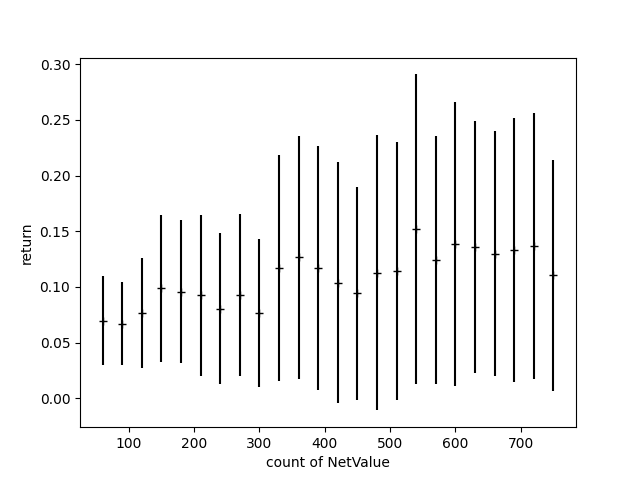
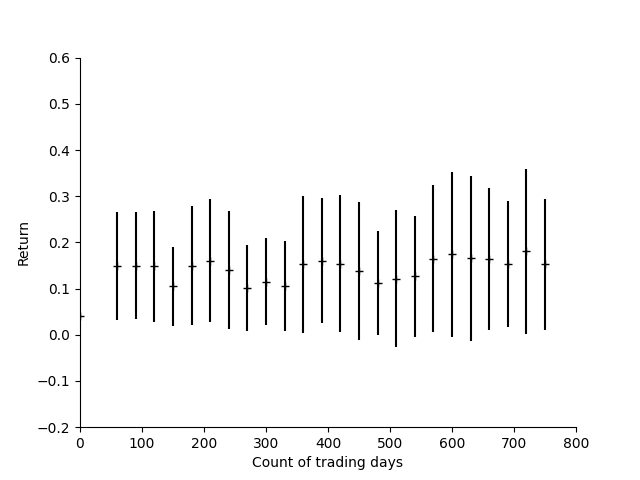
add train code

diff --git a/src/train/trainGBDT.py b/src/train/trainGBDT.py
@@ -16,16 +16,20 @@ gc.enable()
 
 def loadDataset(ifPrint=True, ifLoadDatasetFromFile = True):
     if ifPrint:
-        print('Loading data...')    
+        print('Loading data...')
+
+    # the file don't exist, so it's mandatory to generate the file
+    if ifLoadDatasetFromFile:
+        if not os.path.exists('data/xSparseForTrainDataset.npz') or not os.path.exists("data/yForTrainDataset.csv"):
+            ifLoadDatasetFromFile = False
 
     if not ifLoadDatasetFromFile:
         # create the dataset
         folderOfTrainDataset = "data/trainDataset"
         count = 0
         for file in os.listdir(folderOfTrainDataset):
-            if count >= 100000:
-                break
-            print ("count = %s\tfile=%s" % (count, file))
+            if count % 100 == 0:
+                print ("count = %s\tfile=%s" % (count, file))
 
             filePath = os.path.join(folderOfTrainDataset, file)
             dfSingle = pd.read_csv(filePath, index_col=0).T.fillna(0)
@@ -74,9 +78,6 @@ def loadDataset(ifPrint=True, ifLoadDatasetFromFile = True):
     trainIndice = indice[:trainValSplitNumber]
     evaluateIndice = indice[trainValSplitNumber:valTestSplitNumber]
     testIndice = indice[valTestSplitNumber:]
-    #print ("trainIndice = %s" % trainIndice)
-    #print ("evaluateIndice = %s" % evaluateIndice)
-    #print ("testIndice = %s" % testIndice)
     #print ("len(trainIndice) = %s" % len(trainIndice))  # 2611130
     #print ("len(evaluateIndice) = %s" % len(evaluateIndice))    # 326391
     #print ("len(testIndice) = %s" % len(testIndice))    # 326392
@@ -102,6 +103,7 @@ def loadDataset(ifPrint=True, ifLoadDatasetFromFile = True):
 
     return xTrain, yTrain, xEvaluate, yEvaluate, xTest, yTest
 
+
 def objective(trial):
     xTrain, yTrain, xEvaluate, yEvaluate, xTest, yTest = loadDataset(ifPrint=False)
 
@@ -110,21 +112,6 @@ def objective(trial):
     lgbEval = lgb.Dataset(xEvaluate, yEvaluate, reference=lgbTrain)
 
     # specify the configurations as a dict
-    '''
-    params = {
-        'boosting_type': 'gbdt',
-        'objective': 'regression',
-        'metric': {'l2', 'l1'},
-        'num_threads': 4,   # real CPU cores in Surface Book 2, modify this in other machine
-        'num_leaves': trial.suggest_int("num_leaves", 2, 2**12-1),
-        'learning_rate': trial.suggest_float("learning_rate", 0.01, 1.0),
-        'feature_fraction': trial.suggest_float("feature_fraction", 0.4, 1.0),
-        'bagging_fraction': trial.suggest_float("bagging_fraction", 0.4, 1.0),
-        'bagging_freq': trial.suggest_int("bagging_freq", 1, 10),
-        'verbose': 0,
-        'min_data_in_leaf': trial.suggest_int("min_data_in_leaf", 10, 1000)
-    }
-    '''
     params = {
         'boosting_type': 'gbdt',
         'objective': 'regression',
@@ -140,13 +127,6 @@ def objective(trial):
     }
 
     # train
-    '''
-    gbm = lgb.train(params,
-                    lgbTrain,
-                    num_boost_round=trial.suggest_int("num_boost_round", 10, 1000),
-                    valid_sets=lgbEval,
-                    early_stopping_rounds=trial.suggest_int("early_stopping_rounds", 1, 100))
-    '''
     gbm = lgb.train(params,
                     lgbTrain,
                     num_boost_round=20,  # already fine tune
@@ -157,6 +137,7 @@ def objective(trial):
     yPred = gbm.predict(xTest)
     # eval
     return mean_squared_error(yTest, yPred) ** 0.5
+
 
 def autoFineTune():
     study = optuna.create_study(direction="maximize")
@@ -172,6 +153,7 @@ def autoFineTune():
     print("  Params: ")
     for key, value in trial.params.items():
         print("    {}: {}".format(key, value))
+
 
 def trainModel():
     xTrain, yTrain, xEvaluate, yEvaluate, xTest, yTest = loadDataset()
@@ -209,31 +191,32 @@ def trainModel():
 
     print('Starting predicting...')
     # predict
-    yPred = gbm.predict(xEvaluate, num_iteration=gbm.best_iteration)
+    yPred = gbm.predict(xTest, num_iteration=gbm.best_iteration)
     print (yPred[:10])
     # eval
-    print('The rmse of prediction is:', mean_squared_error(yEvaluate, yPred) ** 0.5)
+    print('The rmse of prediction is:', mean_squared_error(yTest, yPred) ** 0.5)
 
-def testModel():
+
+def testModel(ifLoadDatasetFromFile = True):
     print('Loading data...')
 
-    ifLoadDatasetFromFile = True
+    # the file don't exist, so it's mandatory to generate the file
+    if ifLoadDatasetFromFile:
+        if not os.path.exists("data/dfTest.csv"):
+            ifLoadDatasetFromFile = False
 
     if not ifLoadDatasetFromFile:
         # create the dataset
         folderOfTestDataset = "data/testDataset"
         count = 0
         for file in os.listdir(folderOfTestDataset):
-            if count >= 1000000:
-                break
-            print ("count = %s\tfile=%s" % (count, file))
+            if count % 100 == 0:
+                print ("count = %s\tfile=%s" % (count, file))
 
             filePath = os.path.join(folderOfTestDataset, file)
             dfSingle = pd.read_csv(filePath, index_col=0)
-            #dfSingle.rename(columns={"Unnamed: 0":"FundCode"}, inplace=True)
             dfSingle.reset_index(drop=True, inplace=True)
             dfSingle = dfSingle.T.fillna(0)
-            #print (dfSingle)
 
             if count == 0:
                 dfTest = dfSingle
@@ -243,36 +226,30 @@ def testModel():
             count += 1
 
         print ("count = %s" % count)
-        #dfTest.reset_index(drop=True, inplace=True)
 
         # save df
         dfTest.to_csv("data/dfTest.csv")
-    else:
-        dfTest = pd.read_csv("data/dfTest.csv", dtype={'Unnamed: 0':object})
-        dfTest.set_index(['Unnamed: 0'], inplace=True)
+        
+    dfTest = pd.read_csv("data/dfTest.csv", dtype={'Unnamed: 0':object})
+    dfTest.set_index(['Unnamed: 0'], inplace=True)
 
     print ("dfTest = \n%s" % dfTest)
 
     # load model to predict
     bst = lgb.Booster(model_file='model/model.txt')
-    # can only predict with the best iteration (or the saving iteration)
     yPred = bst.predict(dfTest)
-    print ("yPred = %s" % yPred)
-    print ("yPred.shape = %s" % yPred.shape)
-    #print ("type(yPred) = %s" % type(yPred))    # <class 'numpy.ndarray'>
-
-    dfTest["adjustFactorToLatestDay"] = yPred
-    dfAdjustFactorToLatestDay = dfTest[["adjustFactorToLatestDay"]].T
-    print ("dfAdjustFactorToLatestDay = %s" % dfAdjustFactorToLatestDay)
-    dfAdjustFactorToLatestDay.to_csv("data/dfAdjustFactorToLatestDay.csv")
 
     dfTest["yPred"] = yPred
-    print ("dfTest = %s" % dfTest)
+    dfAdjustFactorToLatestDay = dfTest[["yPred"]].T
+    dfAdjustFactorToLatestDay.to_csv("data/dfAdjustFactorToLatestDay.csv")
 
+    print ("dfAdjustFactorToLatestDay = \n%s" % dfAdjustFactorToLatestDay)
+
+    xMax = dfTest.shape[1] - 2  # 8812
     try:
-        dfTest.plot.scatter(x='9573', y='yPred', c='k')
+        dfTest.plot.scatter(x=str(xMax), y='yPred', c='k')
     except:
-        dfTest.plot.scatter(x=9573, y='yPred', c='k')
+        dfTest.plot.scatter(x=xMax, y='yPred', c='k')
     plt.xlabel("Count of trading days")
     plt.ylabel("Adjusted factor to latest day")
     plt.xlim((0, 800))
@@ -281,7 +258,8 @@ def testModel():
     # no line in right and top border
     ax.spines['right'].set_color('none')
     ax.spines['top'].set_color('none')
-    plt.savefig("./data/adjust_factor_in_testing.png")
+    plt.savefig("./image/adjust_factor_in_testing.png")
+
 
 if __name__ == "__main__":
     fire.Fire()

diff --git a/doc/dataPrepare.md b/doc/dataPrepare.md
@@ -1,90 +1,53 @@
 ## crawl data
-
-Most of the data are crawled from [天天基金网](https://fund.eastmoney.com/), follow below procedures to crawl all the data.
-
-All commands are exectued in the root folder of this repo.
+Most of the data are crawled from [天天基金网](https://fund.eastmoney.com/).
 ```
 python src/data/crawlFundData.py crawlAllFundData --ifCrawlBasicInformation=True --ifCrawlPortfolio=True --ifCrawlHistoricalValue=True
 ```
-You can set the args False to ignore some informations.
-
-### Optional commands
-
-If you want to get latest fund, just use below commands.
-```
-python src\data\getLatestFund.py
-```
+You can set the args False to ignore some informations, all commands are exectued in the root folder of this repo.
 
 ## data analyze
-
 ### analyze historical value
-
 Use below commands to get the return and risk in 3 years for all funds.
 ```
 python src/data/analyzeData.py analyzeHistoricalValue --ifUseNewIssues=True --ifUseOldIssues=True --ifUseWatchList=False --ifUseAdjustFactorToLatestDay=False --ifPrintFundCode=False
 ```
 
-We can set ifUseAdjustFactorToLatestDay be True after we prepare data in TODO: add location.
-
+The result:
 ![risk_return_noWatchlist_useNewIssues_useOldIssues_notUseAdjustFactor](image/risk_return_noWatchlist_useNewIssues_useOldIssues_notUseAdjustFactor.png)
 
 
 ### quantitively analyze
-Catogorize the return and risk in same days.
+Catogorize the return and risk in near days.
 ```
 python src/data/analyzeData.py getAverageSlopeForFundsInSameRange --ifUseAdjustFactorToLatestDay=False
 ```
 We can get the average of annualized return, it seems the average return varies in different time.
-
 ![averageReturn_30_notUseAdjustFactor](image/averageReturn_30_notUseAdjustFactor.png)
 
-
 ### fund managers tend to use similar strategy
-
 We can use Pearson's correlation method to get the correlation between fund '110011' and other funds.
 ```
 python src/data/analyzeData.py getCorrelationMatrixForOneFund --ifGetCorrFromFile=False --ifGetDfMergeFromFile=False
 ```
-
 If intermediate file are generated, we can set related flags True.
-
 ![correlation_110011](image/correlation_110011.png)
 
 ### confirm it in all funds
-To confirm it, I analyze the Pearsom's correlation matrix for all funds and try to find the maximum correlation for each fund, it seems all the maximum correlation is near 1, so we can find a similar fund for every fund.
+I analyze the Pearsom's correlation matrix for all funds.
 ```
 python src/data/analyzeData.py getCorrelationMatrixForAllFunds --ifGetCorrFromFile=False --ifGetDfMergeFromFile=False
 ```
-
 ![maximum_correlation](image/maximum_correlation.png)
 
-Based on analysis above, another way to estimate the return in 3 years is we can let newer fund imitate the return of the older fund with same portfolio. But we can't find two funds with same portfolio, so we should train a model to elimate the influence of different portfolio and unknown equities.
-
 #### Cosine between portfolio of two funds
-As we can get sparse matrix for portfolio of all funds, we can use cosine between two vectors in this matrix to represent the correlation of two funds.
-We can analyze one fund.
+Use cosine between two vectors in this matrix to represent the correlation of two funds.
 ```
 python src/data/analyzeData.py analyzeCosineForOneFund
 ```
-
 ![cosine_110011](image/cosine_110011.png)
 
-It seems most of the values are located around 0 or 1.
-
-We can regard cosine as some forms of correlation, where cosine=1 means those two funds are related. But this image is different with the correlation image in [fund managers tend to use similar strategy](#fund-managers-tend-to-use-similar-strategy), where the last image have few correlation locating around 0. To confirm this, I print it in the image, coordinate x represents cosine, coordinate y represents Pearson's correlation.
+Get the relation between cosine relation and Pearson's correlation.
 ```
 python src/data/analyzeData.py compareCosineAndPearsonCorr --ifFetchCosineFundFromFile=False --ifFetchCorrFundFromFile=False
 ```
-
 ![cosine_PearsonCorr](image/cosine_PearsonCorr_110011.png)
-
-It seems these 2 metrics are not related, and the Pearson correlation between them are 0.134506. I think we can understand it easily, two funds with different portfolio can have same returns.
-
-## prepare data to train
-
-You can use below commands.
-```
-python src/data/prepareDataset.py prepareTrainDataset
-```
-It will get dataset for every fund which found 3 years ago. I count it and the number is 4340, as there are 9159 funds in folder "dayInStandard", we substract it and we can get 4819 funds which found less than 3 years (actually get 4543).
-

diff --git a/README.md b/README.md
@@ -12,50 +12,45 @@ Use below commands to crawl the data.
 python src/data/crawlFundData.py crawlAllFundData
 ```
 
+Prepare data to train
+```
+python src/data/prepareDataset.py prepareTrainDataset
+```
+
 To find more details, please refer to [dataPrepare](doc/dataPrepare.md).
-
-## data analysis
-
-We want the return and risk in 3 years for all funds.
-[add image]
-The funds with highest return are new issues, it's a problem, for more details, please refer to my paper TODO: add location.
-
-
 
 ## use GBDT to imitate the older fund
 ### training
-
-I use [LightGBM](https://github.com/microsoft/LightGBM) to train GBDT, and I suggest to use Anaconda to install this repository in Ubuntu, it's useful.
-```linux
-conda create --name python36 python=3.6
-source activate python36
-conda install lightgbm
-```
-
 You can train the model and evaluate it like this.
 ```
-python trainGBDT.py trainModel
+python src/train/trainGBDT.py trainModel
 ```
-
+### evaluate
 Get the adjusted factor to latest day.
 ```
-python trainGBDT.py testModel
-```
-
-I try to use optuna to fine tune automatically, but the result is not good, so I quit it.
-```
-python trainGBDT.py autoFineTune
-```
-
-Evaluate it again.
-```
-python analyzeFundData.py getAverageSlopeForFundsInSameRange --ifUseAdjustFactorToLatestDay=False
+python src/train/trainGBDT.py testModel --ifLoadDatasetFromFile=True
 ```
 
 We get the adjustFactorToLatestDay to dayInStandard.
 ![adjust_factor_in_testing](image/adjust_factor_in_testing.png)
 
+I try to use optuna to fine tune automatically, but the result is not good, so I quit it.
+```
+python src/train/trainGBDT.py autoFineTune
+```
+
+After we get the adjusted factor, we can evaluate it again.
+```
+python src/data/analyzeData.py getAverageSlopeForFundsInSameRange --ifUseAdjustFactorToLatestDay=True
+```
+
 The model flatten the distribution of average return.
 ![averageReturn_30_useAdjustFactor](image/averageReturn_30_useAdjustFactor.png)
 
 The standard deviation of average return drop from 0.0520 to 0.0175.
+
+Besides, we can get the  return and risk after adjusted.
+```
+python src/data/analyzeData.py analyzeHistoricalValue --ifUseNewIssues=True --ifUseOldIssues=True --ifUseWatchList=False --ifUseAdjustFactorToLatestDay=True --ifPrintFundCode=False
+```
+![risk_return_noWatchlist_useNewIssues_useOldIssues_useAdjustFactor](image/risk_return_noWatchlist_useNewIssues_useOldIssues_useAdjustFactor.png)
